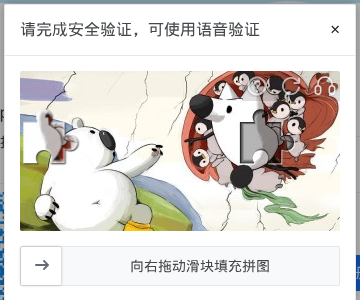
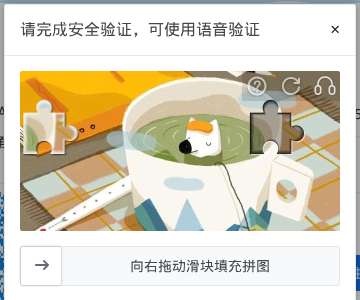
add

diff --git a/03_爬虫/zhihu_login/zhihu_login/spiders/login.py b/03_爬虫/zhihu_login/zhihu_login/spiders/login.py
@@ -4,6 +4,8 @@ from playwright.async_api import Page
 from PIL import Image
 import base64, requests
 import asyncio
+from scipy import interpolate
+import numpy as np
 
 def verify(b):
     url = "http://api.jfbym.com/api/YmServer/customApi"
@@ -19,12 +21,51 @@ def verify(b):
     response = requests.request("POST", url, headers=_headers, json=data).json()
     return int(response["data"]["data"])
 
+async def drag_slide(page:Page, start, end):
+    '''拟人拖动滑块 
+    Arguments:
+        arg
+    Returns:
+        out
+    '''
+    ctrl = [
+      (start[0], start[1]),
+      ((start[0] + end[0]) / 2, start[1] - 50),
+      end
+    ]
+    points = np.array(ctrl)
+    t = range(len(points))
+    num_points = 50
+    t_new = np.linspace(0, len(points) - 1, num_points)
+    x_t = interpolate.splrep(t, points[:,0], k=2)
+    y_t = interpolate.splrep(t, points[:,1], k=2)
+    x_i = interpolate.splev(t_new, x_t)
+    y_i = interpolate.splev(t_new, y_t)
+    path_points = [(x,y) for x, y in zip(x_i, y_i)]
+    print(path_points)
+
+    await page.mouse.move(start[0], start[1])
+    await page.mouse.down()
+
+    num_step = 1
+    for x, y in path_points[1:]:
+        await page.mouse.move(x, y)
+        if num_step < (num_points * 3 / 4):
+            wait_time = 0.0005 * (num_points / num_step)
+        else:
+            wait_time = 0.002 * (num_points / (num_points - num_step))
+        await asyncio.sleep(wait_time)
+        num_step += 1
+
+    await asyncio.sleep(1.5)
+    await page.mouse.up()
+
 class LoginSpider(scrapy.Spider):
     name = "login"
     allowed_domains = ["www.zhihu.com"]
     start_urls = ["https://www.zhihu.com/signin?next=%2F"]
 
-    def start_requests(self):
+    async def start(self):
         for url in self.start_urls:
             yield scrapy.Request(
                 url, 
@@ -34,10 +75,13 @@ class LoginSpider(scrapy.Spider):
                     "playwright_page_methods": [
                         # 等待输入框加载
                         PageMethod("add_init_script", """
+                            console.log('Running init script to modify navigator.webdriver');
                             Object.defineProperty(navigator, 'webdriver',{get:()=>undefined});
                             Object.defineProperty(navigator, 'languages',{get:()=>['en-US','en']});
                             Object.defineProperty(navigator, 'plugins',{get:()=>[1,2,3,4,5]});
                             window.chrome = {runtime:{}};
+                            console.log('navigator.webdriver after modification:', navigator.webdriver);
+                            console.log('navigator.webdriver after modification:', navigator.plugins);
                         """),
                         PageMethod("wait_for_selector", "input[name='username']"),
                         # 填写用户名
@@ -57,6 +101,7 @@ class LoginSpider(scrapy.Spider):
         page: Page = response.meta["playwright_page"]
 
         # 等待验证码加载完成
+        await asyncio.sleep(2)
         await page.wait_for_selector("div.yidun_bgimg")
 
         img = Image.open("./ans.png")
@@ -69,26 +114,20 @@ class LoginSpider(scrapy.Spider):
         pixel_offset = verify(b)
         x_start = 33 + 460
         y_start = 258 + 140
-        await page.mouse.move(x_start, y_start)
-        await page.mouse.down()
 
-        total = int(pixel_offset + 10)
-        current = 0
-        while current < total:
-            step = min(5, total - current)
-            current += step
-            await page.mouse.move(x_start + current, y_start, steps=1)
-            await asyncio.sleep(0.02)
+        x_end = x_start + pixel_offset + 15
+        y_end = y_start + 20
+
+        await drag_slide(page, (x_start, y_start), (x_end, y_end))
 
         print(f"------------------------------------------> offset : {pixel_offset}")
         await page.screenshot(path="./moved.png")
         await page.mouse.up()
-        await page.wait_for_timeout(500 * 1000)
+        await page.wait_for_timeout(2 * 1000)
+        await page.screenshot(path="./final.png")
 
 
     def parse(self, response):
         import pdb; pdb.set_trace()
         print(response)
-
-
     

diff --git a/03_爬虫/zhihu_login/zhihu_login/settings.py b/03_爬虫/zhihu_login/zhihu_login/settings.py
@@ -15,7 +15,7 @@ NEWSPIDER_MODULE = "zhihu_login.spiders"
 ADDONS = {}
 
 # Crawl responsibly by identifying yourself (and your website) on the user-agent
-USER_AGENT = "Mozilla/5.0 (Windows NT 10.0; Win64; x64) AppleWebKit/537.36 (KHTML, like Gecko) Chrome/138.0.0.0 Safari/537.36"
+USER_AGENT = "Mozilla/5.0 (Macintosh; Intel Mac OS X 10_15_7) AppleWebKit/537.36 (KHTML, like Gecko) Chrome/106.0.0.0 Safari/537.36"
 
 # Obey robots.txt rules
 ROBOTSTXT_OBEY = False
@@ -32,13 +32,19 @@ DOWNLOAD_HANDLERS = {
 TWISTED_REACTOR = "twisted.internet.asyncioreactor.AsyncioSelectorReactor"
 PLAYWRIGHT_BROWSER_TYPE = "chromium"  # or firefox
 PLAYWRIGHT_LAUNCH_OPTIONS = {
-    "headless": False
+    "headless": True
 }
-PLAYWRIGHT_BROWSER_CONTEXTS = {
+PLAYWRIGHT_CONTEXTS = {
     "default": {
-        "user_agent": "Mozilla/5.0 (Windows NT 10.0; Win64; x64) AppleWebKit/537.36 (KHTML, like Gecko) Chrome/138.0.0.0 Safari/537.36"
+        "user_agent": "Mozilla/5.0 (Windows NT 10.0; Win64; x64) AppleWebKit/537.36 (KHTML, like Gecko) Chrome/138.0.0.0 Safari/537.36",
+        # "user_agent": "Mozilla/5.0 (Macintosh; Intel Mac OS X 10_15_7) AppleWebKit/537.36 (KHTML, like Gecko) Chrome/106.0.0.0 Safari/537.36",
+        "viewport" : {
+            "width" : 1280,
+            "height" :720
+        },
     }
 }
+LOG_LEVEL = "INFO"
 # Disable cookies (enabled by default)
 #COOKIES_ENABLED = False
 

diff --git a/03_爬虫/02_test_yunma.py b/03_爬虫/02_test_yunma.py
@@ -1,0 +1,6 @@
+import mouse, keyboard
+events = []
+mouse.hook(events.append)
+keyboard.wait('esc')
+mouse.unhook(events.append)
+print(events)
